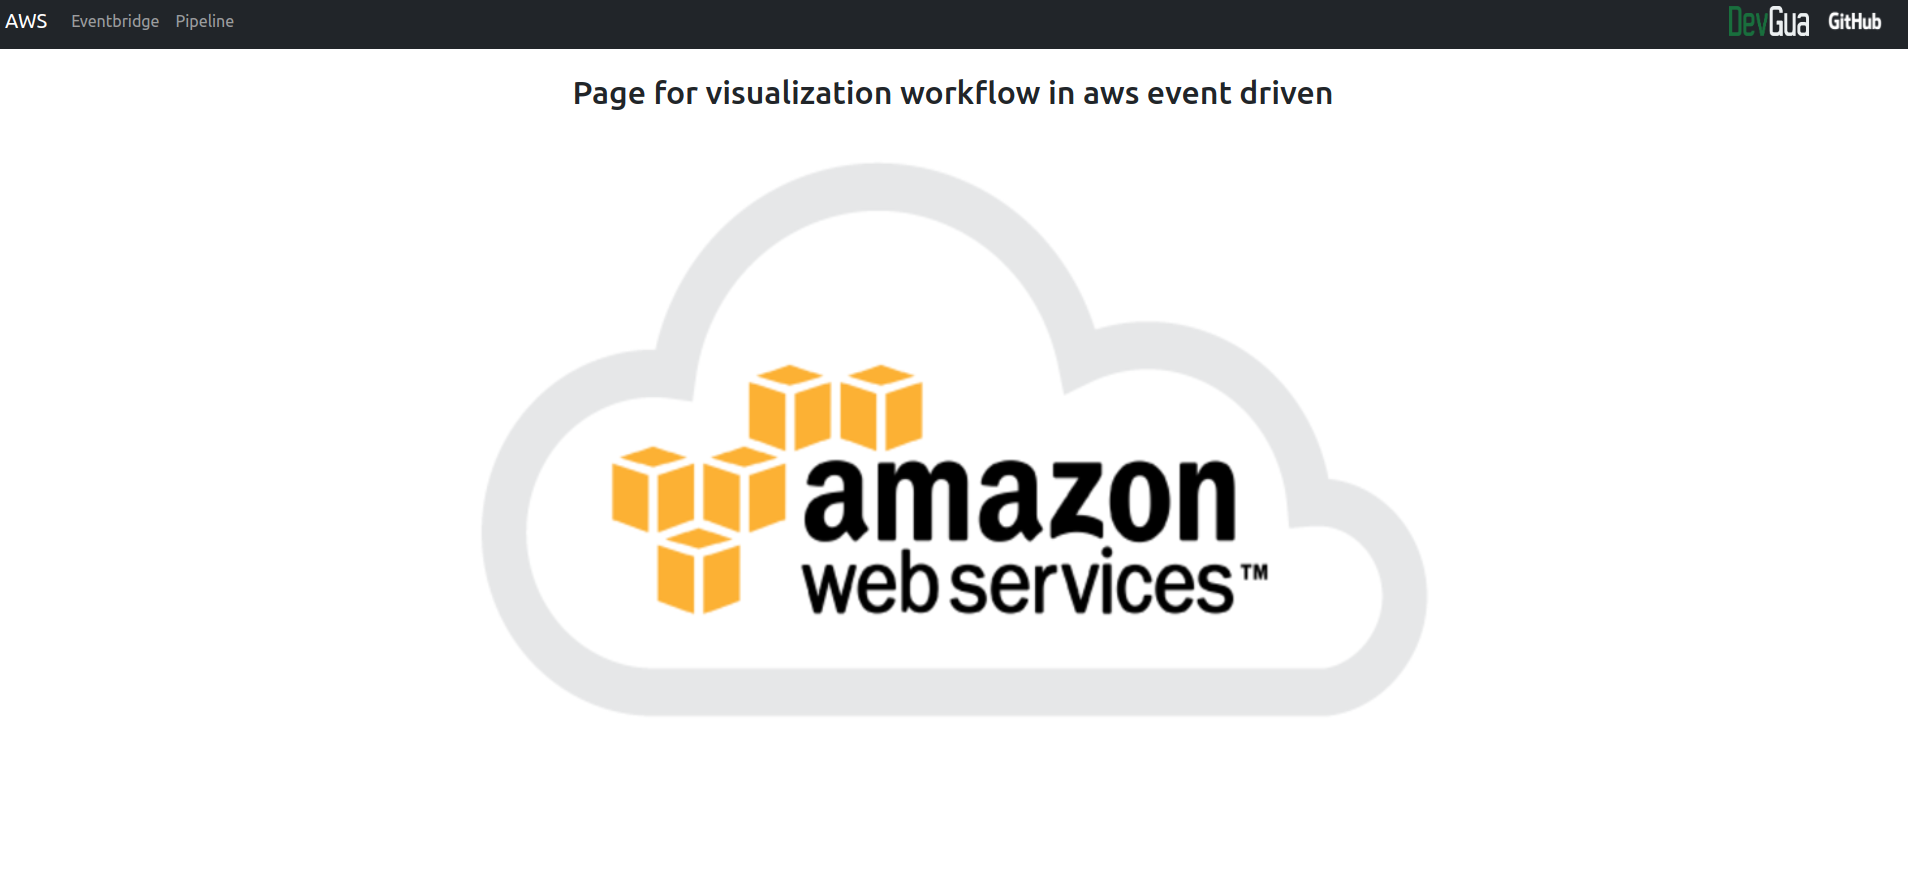
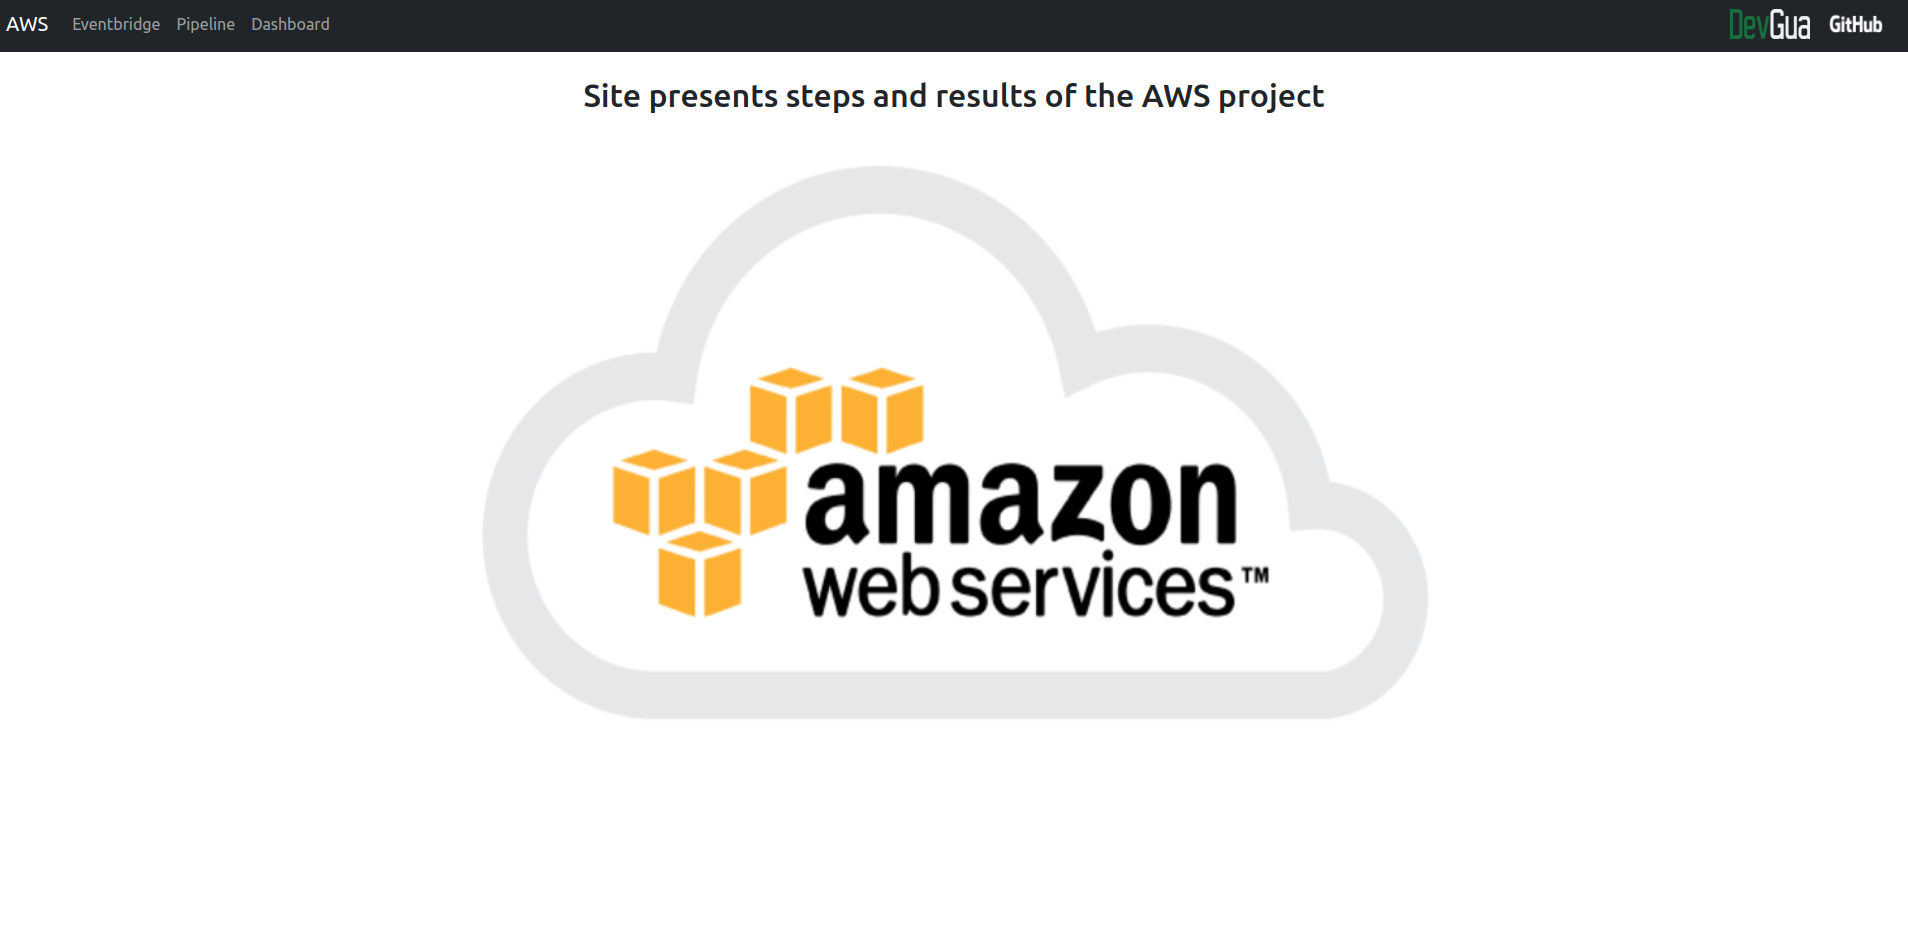
Refactor: change descriptions in pages

diff --git a/templates/eventbridge.html b/templates/eventbridge.html
@@ -2,7 +2,8 @@
 
 {% block content %}
 
-<h2 class="title" style="text-align:center;">{% block title %} Page for visualization workflow in aws event driven {%
+<h2 class="title" style="text-align:center;">{% block title %} Site presents steps and results of the Event Driven Sata
+    Processing{%
     endblock %}</h2>
 <br>
 <p style="text-align:center;">
@@ -11,35 +12,36 @@
 <div id="carouselExampleDark" class="carousel carousel-dark slide" data-bs-touch="false" data-bs-interval="false">
     <div class="carousel-inner">
         <div class="carousel-item active">
-            <h5 style="text-align:center;">Connecting to external API for get dummy users</h5>
+            <h5 style="text-align:center;">1. Connecting to external API for getting dummy users</h5>
             <p style="text-align:center;">
                 <img src="{{url_for('static', filename='eventbridge/connect_api.png')}}" alt="connect to api"
                     class="center" width="1000" height="400">
             </p>
         </div>
         <div class="carousel-item">
-            <h5 style="text-align:center;">Uploading user data in .json file to s3 bucket</h5>
+            <h5 style="text-align:center;">2. Uploading user data in .json file to s3 bucket</h5>
             <p style="text-align:center;">
                 <img src="{{url_for('static', filename='eventbridge/upload_to_s3.png')}}" alt="upload json to s3"
                     class="center" width="1000" height="400">
             </p>
         </div>
         <div class="carousel-item">
-            <h5 style="text-align:center;">Creating s3 bucket and check if .json file exist after run app</h5>
+            <h5 style="text-align:center;">3. Creating s3 bucket and checking if .json file exist</h5>
             <p style="text-align:center;">
                 <img src="{{url_for('static', filename='eventbridge/s3_bucket.png')}}" alt="create s3 bucket"
                     class="center" width="1000" height="400">
             </p>
         </div>
         <div class="carousel-item">
-            <h5 style="text-align:center;">Creating Amazon EventBridge for monitoring when user create new object</h5>
+            <h5 style="text-align:center;">4. Creating Amazon EventBridge for monitoring when user creates new object
+            </h5>
             <p style="text-align:center;">
                 <img src="{{url_for('static', filename='eventbridge/eventbridge.png')}}" alt="eventbridge"
                     class="center" width="1000" height="400">
             </p>
         </div>
         <div class="carousel-item">
-            <h5 style="text-align:center;">Creating Simple Notification Service for send email when new object was
+            <h5 style="text-align:center;">5. Creating a Simple Notification Service to send email when a new object was
                 created</h5>
             <p style="text-align:center;">
                 <img src="{{url_for('static', filename='eventbridge/sns_and_sub.png')}}" alt="sns" class="center"
@@ -47,35 +49,37 @@
             </p>
         </div>
         <div class="carousel-item">
-            <h5 style="text-align:center;">Email subscription</h5>
+            <h5 style="text-align:center;">6. Email subscription</h5>
             <p style="text-align:center;">
                 <img src="{{url_for('static', filename='eventbridge/email.png')}}" alt="email sub" class="center"
                     width="1000" height="200">
             </p>
         </div>
         <div class="carousel-item">
-            <h5 style="text-align:center;">Creating Simple Queue Service and connect with SNS</h5>
+            <h5 style="text-align:center;">7. Creating Simple Queue Service and connecting with SNS</h5>
             <p style="text-align:center;">
                 <img src="{{url_for('static', filename='eventbridge/sqs.png')}}" alt="sqs" class="center" width="1000"
                     height="400">
             </p>
         </div>
         <div class="carousel-item">
-            <h5 style="text-align:center;">Creating Lambda and connect with SQS trigger</h5>
+            <h5 style="text-align:center;">8. Creating Lambda and connecting with SQS trigger</h5>
             <p style="text-align:center;">
                 <img src="{{url_for('static', filename='eventbridge/lambda_sqs.png')}}" alt="lambda connect sqs"
                     class="center" width="1000" height="400">
             </p>
         </div>
         <div class="carousel-item">
-            <h5 style="text-align:center;">Creating Lambda function for read event and load json from s3</h5>
+            <h5 style="text-align:center;">9. Creating Lambda function for reading event and loading json from s3 bucket
+            </h5>
             <p style="text-align:center;">
                 <img src="{{url_for('static', filename='eventbridge/lambda_read_json.png')}}" alt="lambda read json"
                     class="center" width="1000" height="400">
             </p>
         </div>
         <div class="carousel-item">
-            <h5 style="text-align:center;">Uploading Lambda function for create dataframe and save data in parquet file
+            <h5 style="text-align:center;">10. Uploading Lambda function to create dataframe and save data in
+                parquet file
             </h5>
             <p style="text-align:center;">
                 <img src="{{url_for('static', filename='eventbridge/lambda_write_parquet.png')}}"
@@ -83,21 +87,21 @@
             </p>
         </div>
         <div class="carousel-item">
-            <h5 style="text-align:center;">Write parquet file into s3 bucket</h5>
+            <h5 style="text-align:center;">11. Writing parquet file in s3 bucket</h5>
             <p style="text-align:center;">
                 <img src="{{url_for('static', filename='eventbridge/s3_all_files.png')}}" alt="s3 all files"
                     class="center" width="1000" height="400">
             </p>
         </div>
         <div class="carousel-item">
-            <h5 style="text-align:center;">Creating function for read parquet file from s3</h5>
+            <h5 style="text-align:center;">12. Creating function for reading parquet file from s3 bucket</h5>
             <p style="text-align:center;">
                 <img src="{{url_for('static', filename='eventbridge/read_parquet.png')}}" alt="read parquet from s3"
                     class="center" width="1000" height="400">
             </p>
         </div>
         <div class="carousel-item">
-            <h5 style="text-align:center;">Printing data on console</h5>
+            <h5 style="text-align:center;">13. Printing data on console</h5>
             <p style="text-align:center;">
                 <img src="{{url_for('static', filename='eventbridge/result_parquet.png')}}"
                     alt="result data from parquet" class="center" width="1000" height="400">

diff --git a/templates/pipeline.html b/templates/pipeline.html
@@ -2,8 +2,8 @@
 
 {% block content %}
 
-<h2 class="title" style="text-align:center;">{% block title %} Page for visualization workflow in data pipeline with
-    glue services{%
+<h2 class="title" style="text-align:center;">{% block title %} Site presents steps and results of the Data Pipeline in
+    Glue Services{%
     endblock %}</h2>
 <br>
 <p style="text-align:center;">
@@ -26,7 +26,7 @@
             </p>
         </div>
         <div class="carousel-item">
-            <h5 style="text-align:center;">3. Creating crawlers for csv file and parquet for next steps</h5>
+            <h5 style="text-align:center;">3. Creating crawlers</h5>
             <p style="text-align:center;">
                 <img src="{{url_for('static', filename='pipeline/create_crawlers.png')}}" alt="create crawlers"
                     class="center" width="1000" height="400">
@@ -40,15 +40,16 @@
             </p>
         </div>
         <div class="carousel-item">
-            <h5 style="text-align:center;">5. Creating job for count users job titles with sex data and save result i
-                parquet file</h5>
+            <h5 style="text-align:center;">5. Creating job to count users and job titles with sex data and saving result
+                in parquet file</h5>
             <p style="text-align:center;">
                 <img src="{{url_for('static', filename='pipeline/job_count.png')}}" alt="jon count sex" class="center"
                     width="1000" height="800">
             </p>
         </div>
         <div class="carousel-item">
-            <h5 style="text-align:center;">6. Creating job for select columns from table and save result i parquet file
+            <h5 style="text-align:center;">6. Creating job to selected columns from table and saving result in parquet
+                file
             </h5>
             <p style="text-align:center;">
                 <img src="{{url_for('static', filename='pipeline/job_user_data.png')}}" alt="job select columns"
@@ -56,15 +57,15 @@
             </p>
         </div>
         <div class="carousel-item">
-            <h5 style="text-align:center;">7. Creating job for reaname column title and select columns from table, next
-                save result i parquet file</h5>
+            <h5 style="text-align:center;">7. Creating job to reaname column and select columns from source table,
+                saving result in parquet file</h5>
             <p style="text-align:center;">
                 <img src="{{url_for('static', filename='pipeline/job_user_names.png')}}"
                     alt="job reaneme and select columns" class="center" width="1000" height="800">
             </p>
         </div>
         <div class="carousel-item">
-            <h5 style="text-align:center;">8. Creating trigger for run jobs in schedule</h5>
+            <h5 style="text-align:center;">8. Creating trigger to run jobs in schedule</h5>
             <p style="text-align:center;">
                 <img src="{{url_for('static', filename='pipeline/create_trigger.png')}}" alt="create trigger"
                     class="center" width="1000" height="300">
@@ -78,15 +79,15 @@
             </p>
         </div>
         <div class="carousel-item">
-            <h5 style="text-align:center;">10. Running crawler for create tables from parquet files</h5>
+            <h5 style="text-align:center;">10. Running crawlers to create tables from parquet files</h5>
             <p style="text-align:center;">
                 <img src="{{url_for('static', filename='pipeline/create_tables_parquets.png')}}"
                     alt="create tables from parquet" class="center" width="1000" height="400">
             </p>
         </div>
         <div class="carousel-item">
-            <h5 style="text-align:center;">11. Creating athena service for show data in tables - table with count job
-                titles
+            <h5 style="text-align:center;">11. Creating athena service to show data in tables - table with count
+                job titles
             </h5>
             <p style="text-align:center;">
                 <img src="{{url_for('static', filename='pipeline/athena_count.png')}}" alt="athena job titles count"

diff --git a/templates/dashboard.html b/templates/dashboard.html
@@ -2,8 +2,8 @@
 
 {% block content %}
 
-<h2 class="title" style="text-align:center;">{% block title %} Page for visualization workflow in serverless dashboard{%
-    endblock %}</h2>
+<h2 class="title" style="text-align:center;">{% block title %} Site presents steps and results of the Serverless
+    Dashboard {% endblock %}</h2>
 <br>
 <p style="text-align:center;">
     <img src="{{url_for('static', filename='dashboard/func-diagram-dashboard.png')}}" width="1000" height="400" />
@@ -11,7 +11,7 @@
 <div id="carouselExampleDark" class="carousel carousel-dark slide" data-bs-touch="false" data-bs-interval="false">
     <div class="carousel-inner">
         <div class="carousel-item active">
-            <h5 style="text-align:center;">1. Creating S3 bucket with directories</h5>
+            <h5 style="text-align:center;">1. Creating s3 bucket with directories</h5>
             <p style="text-align:center;">
                 <img src="{{url_for('static', filename='dashboard/s3_bucket.png')}}" alt="create s3 bucket"
                     class="center" width="1000" height="400">
@@ -32,22 +32,22 @@
             </p>
         </div>
         <div class="carousel-item">
-            <h5 style="text-align:center;">4. Creating job with custom code, transformation types and save file in
-                parquet type</h5>
+            <h5 style="text-align:center;">4. Creating job with custom code, transformation types and saving file in
+                parquet</h5>
             <p style="text-align:center;">
                 <img src="{{url_for('static', filename='dashboard/job_create_parquet.png')}}" alt="create job"
                     class="center" width="1000" height="800">
             </p>
         </div>
         <div class="carousel-item">
-            <h5 style="text-align:center;">5. Creating custom code in pyspark for get salary without sign '$'</h5>
+            <h5 style="text-align:center;">5. Creating custom code in pyspark to get salary without sign '$'</h5>
             <p style="text-align:center;">
                 <img src="{{url_for('static', filename='dashboard/sunstring.png')}}" alt="create custom code"
                     class="center" width="1000" height="400">
             </p>
         </div>
         <div class="carousel-item">
-            <h5 style="text-align:center;">6. Creating crawler for make table from parquet file</h5>
+            <h5 style="text-align:center;">6. Creating crawler to make table from parquet file</h5>
             <p style="text-align:center;">
                 <img src="{{url_for('static', filename='dashboard/create_crawler.png')}}" alt="create crawler"
                     class="center" width="1000" height="400">
@@ -104,8 +104,6 @@
                         width="100" height="100">
                 </a>
                 <a>
-                    <br><br>
-                    Sample dashboard for download in pdf format:
                     <br><br>
                     <a class="btn btn-warning btn-sm" href="{{ url_for('.download_file') }}" role="button">Download pdf
                         file</a>

diff --git a/templates/index.html b/templates/index.html
@@ -2,7 +2,7 @@
 
 {% block content %}
 
-<h2 class="title" style="text-align:center;">{% block title %} Page for visualization workflow in aws event driven {%
+<h2 class="title" style="text-align:center;">{% block title %} Site presents steps and results of the AWS project {%
     endblock %}</h2>
 <br>
 <p style="text-align:center;">

diff --git a/README.md b/README.md
@@ -1,5 +1,5 @@
 # AWS SERVICES WORKFLOW
-> This application showed images with projects on aws services. 
+> This application shows images with projects on aws services. 
 > Live demo [_here_](http://mateuszgua.pythonanywhere.com/).
 
 
@@ -23,9 +23,9 @@
 
 ## Features
 List the ready features here:
-- Create view for show data eventbridge with s3 bucket and lambda,
-- Create view for show data pipeline in glue and show results in athena,
-- Create view for show dashboard in athena and quicksight
+- Creating view to show data eventbridge with s3 bucket and lambda,
+- Createing view to show data pipeline in glue and show results in athena,
+- Creating view to show dashboard in athena and quicksight
 
 ## Screenshots
 Page with project workflow
